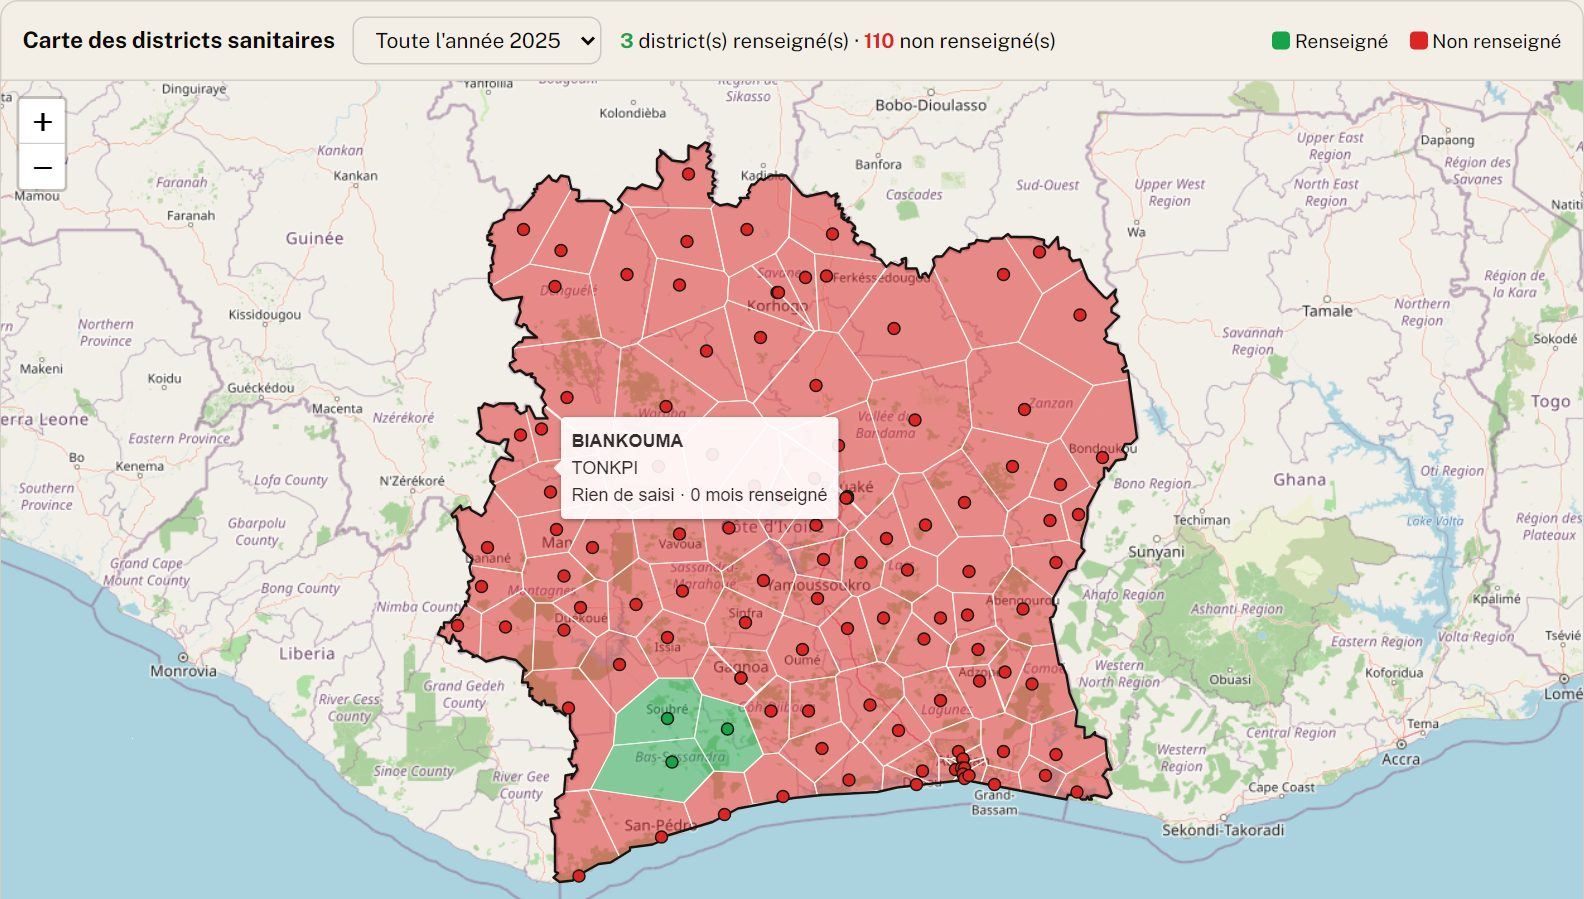
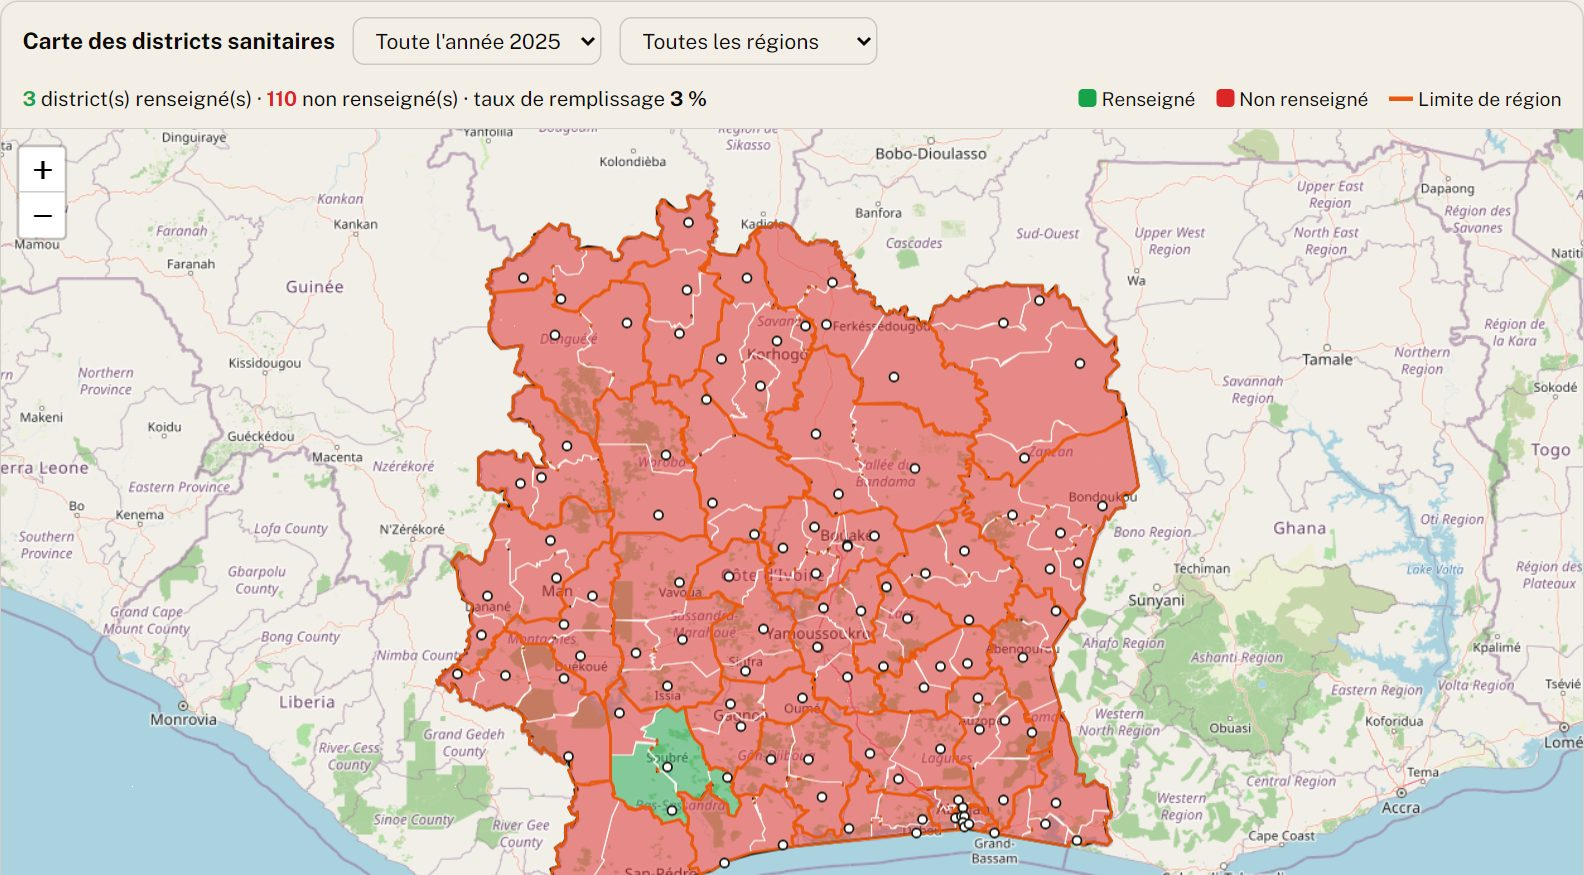
Landing : section Cartographie (limites officielles, régions, taux de remplissage) et Suivi en temps réel (district choisi) mises à jour, captures refaites

diff --git a/resources/views/landing.blade.php b/resources/views/landing.blade.php
@@ -222,19 +222,21 @@
 
 <section id="saisie">
     <div class="wrap">
-        <div class="sh"><span class="mono">02 — Cartographie</span><div><h2>Qui a renseigné ses véhicules, et qui ne l'a pas fait</h2><p>Une carte de la Côte d'Ivoire et un tableau des districts sur les douze mois de l'année. Le niveau régional et national voit d'un coup d'œil où relancer.</p></div></div>
+        <div class="sh"><span class="mono">02 — Cartographie</span><div><h2>Qui a renseigné ses véhicules, et qui ne l'a pas fait</h2><p>Les limites officielles des districts sanitaires et des régions sur une carte de la Côte d'Ivoire, et le taux de remplissage de chaque district. Le niveau régional et national voit d'un coup d'œil où relancer.</p></div></div>
         <div class="split">
             <ul>
-                <li><b>Un district par ligne, un mois par colonne</b>Le chiffre de chaque case est le nombre de sorties saisies dans le mois.</li>
-                <li><b>Filtre par région et recherche</b>Les {{ $stats['districts'] }} districts, ou seulement ceux d'une région.</li>
+                <li><b>Limites officielles</b>Les {{ $stats['districts'] }} districts sanitaires, avec en orange les limites des 33 régions. Chaque district est vert dès qu'une sortie est saisie.</li>
+                <li><b>Taux de remplissage</b>Les mois renseignés rapportés aux mois écoulés, pour la carte, pour chaque district et pour l'année.</li>
+                <li><b>Filtres mois et région</b>Un mois précis ou l'année entière ; le choix d'une région la met en avant et zoome dessus.</li>
+                <li><b>Un district par ligne, un mois par colonne</b>Le tableau donne le nombre de sorties saisies dans chaque mois.</li>
                 <li><b>« Seulement les districts en retard »</b>Ne garde que ceux à qui il manque au moins un mois écoulé.</li>
             </ul>
             <figure>
                 <div class="shot">
-                    <div class="cap"><span>Cartographie · 113 districts sanitaires</span><span>2025</span></div>
-                    <img src="/landing/cartographie-saisie.jpg" width="1584" height="899" alt="Carte de la Côte d'Ivoire avec les 113 districts sanitaires : en vert ceux qui ont saisi leurs sorties de véhicules, en rouge ceux qui n'ont rien saisi.">
+                    <div class="cap"><span>Cartographie · limites des districts et des régions</span><span>2025</span></div>
+                    <img src="/landing/cartographie-saisie.jpg" width="1584" height="899" alt="Carte de la Côte d'Ivoire avec les limites officielles des 113 districts sanitaires et des régions : en vert les districts qui ont saisi leurs sorties de véhicules, en rouge ceux qui n'ont rien saisi, avec le taux de remplissage.">
                 </div>
-                <div class="key"><span><i style="background:#16a34a"></i>Renseigné</span><span><i style="background:#dc2626"></i>Non renseigné</span><span><i style="background:#d6d3cc"></i>Mois à venir</span></div>
+                <div class="key"><span><i style="background:#16a34a"></i>Renseigné</span><span><i style="background:#dc2626"></i>Non renseigné</span><span><i style="background:#ea580c"></i>Limite de région</span></div>
             </figure>
         </div>
     </div>
@@ -287,7 +289,7 @@
 
 <section id="cartographie">
     <div class="wrap">
-        <div class="sh"><span class="mono">05 — Suivi en temps réel</span><div><h2>Les véhicules du district sur la carte</h2><p>Une carte OpenStreetMap du district : chaque véhicule suit son circuit sur le réseau routier, site par site, avec son avancement et sa prochaine étape.</p></div></div>
+        <div class="sh"><span class="mono">05 — Suivi en temps réel</span><div><h2>Le district, sa région, ses véhicules et leurs circuits</h2><p>Une carte OpenStreetMap qui suit le district choisi : la limite de sa région, le district lui-même, et chaque véhicule sur son circuit, site par site, avec son avancement et sa prochaine étape.</p></div></div>
         <figure>
             <div class="shot">
                 <div class="cap"><span>Suivi en temps réel · district de Méagui</span><span>Simulation de la journée</span></div>
@@ -296,6 +298,7 @@
         </figure>
         <div class="map-legend">
             <div><b>Un véhicule, une couleur</b><span>Le tracé de son circuit, ses sites (pleins une fois livrés) et son étiquette d'immatriculation.</span></div>
+            <div><b>Le district choisi</b><span>La carte suit le sélecteur de district. Un clic sur un véhicule cadre son parcours et met son tracé en avant.</span></div>
             <div><b>La journée en accéléré</b><span>Départ du chef-lieu, trajet, 10 minutes par site, retour au district ; vitesse ×30, ×60 ou ×180.</span></div>
             <div><b>Le réseau routier réel</b><span>Fond OpenStreetMap et itinéraires calculés sur les routes ; positions GPS des centres de santé quand elles sont renseignées.</span></div>
         </div>
